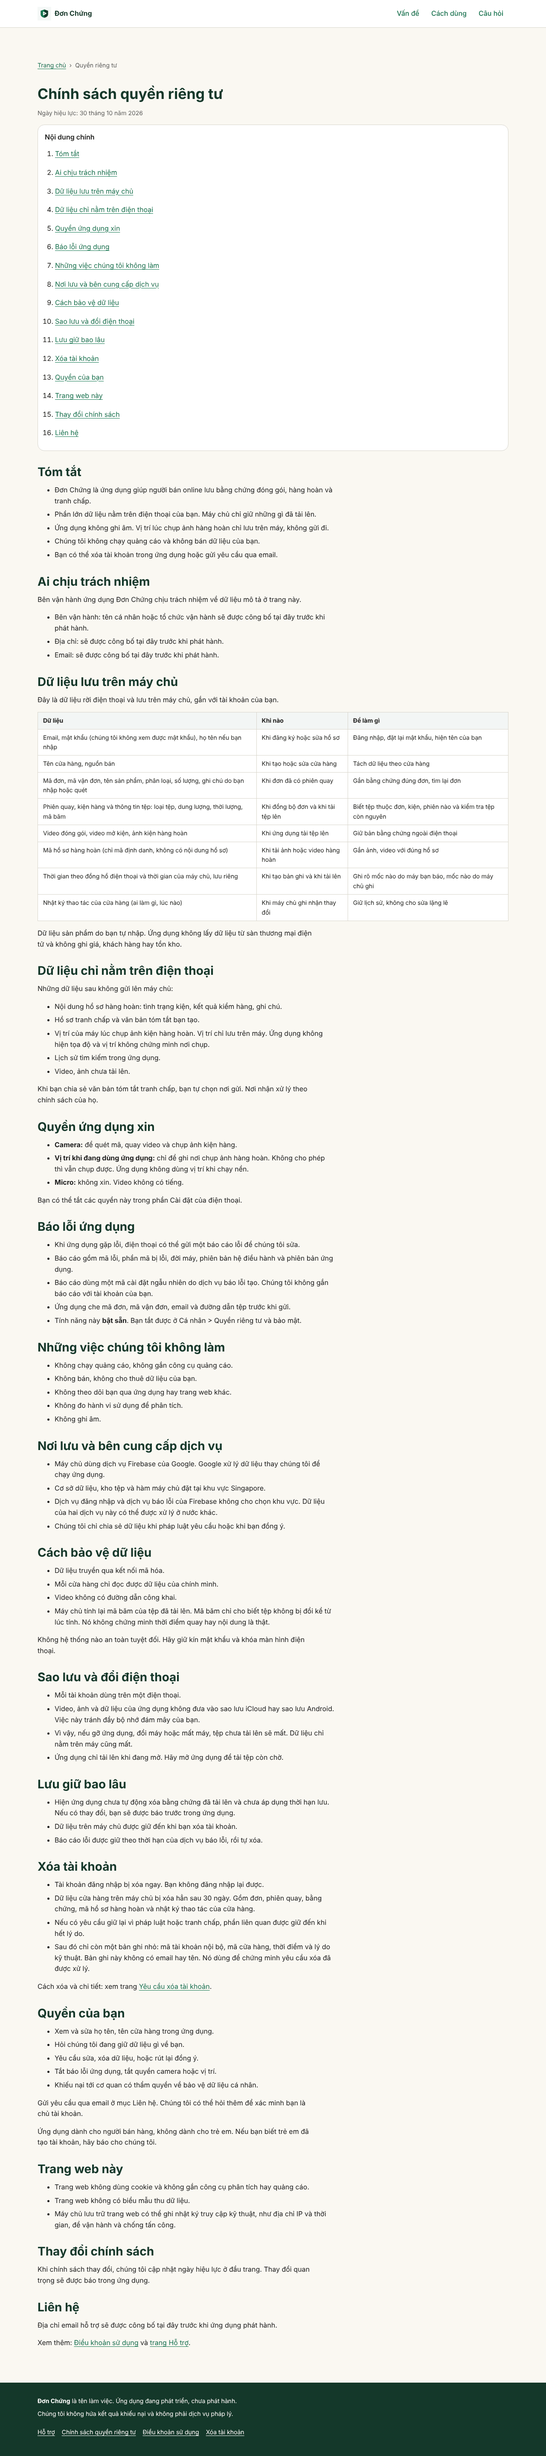
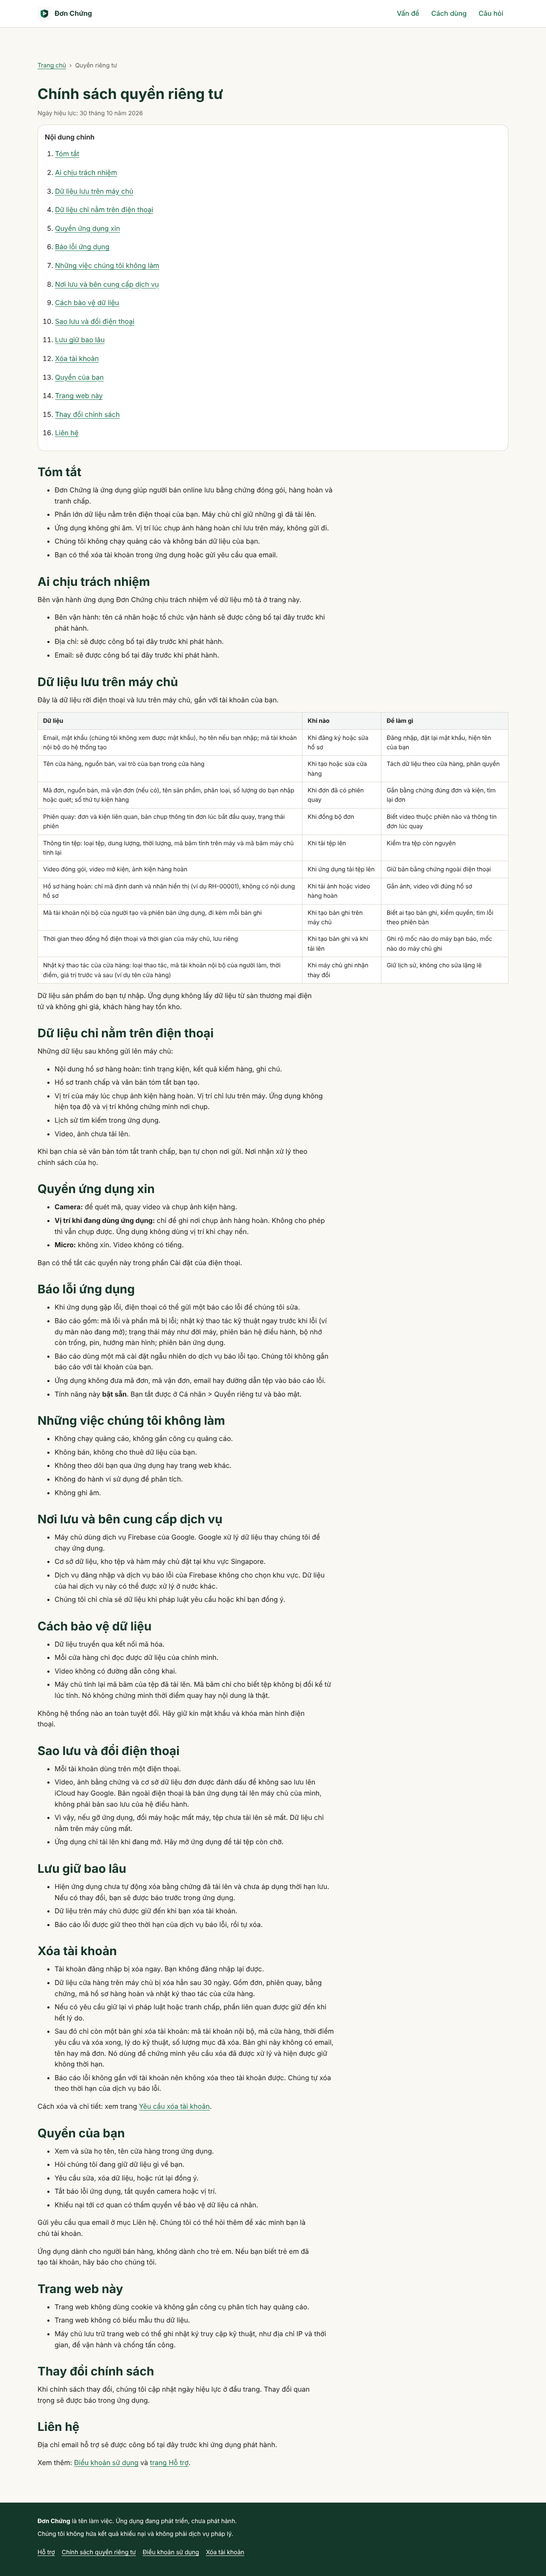
fix(web): sửa theo review PR #42 (V1-19)
- Quyền riêng tư: bảng dữ liệu máy chủ đối chiếu với mã (bỏ "ghi chú"; thêm mã tài khoản
  người tạo, phiên bản ứng dụng, vai trò, bản chụp đơn của phiên, mã băm máy chủ);
  câu sao lưu thu hẹp theo Q-24d; báo lỗi nêu nhật ký thao tác kỹ thuật và trạng thái
  máy, không đưa mã đơn/mã vận đơn/email/đường dẫn tệp vào báo cáo; câu bản ghi xóa
  khớp trang /xoa-tai-khoan/.
- Thêm `npm run check:release` (check-seo --release): giữ chỗ là lỗi dù indexable=false;
  checklist C-7 bắt buộc chạy trước khi khai URL cho store.
- decisions.md: đổi tiêu đề thành "Q-29 / V1-19 — web-legal-pages"; README ảnh ghi kết
  quả Lighthouse; chụp lại trang quyền riêng tư.

Claude-Session: https://claude.ai/code/session_01EqYbDgQebWwJDZZaEixKbZ

Changed region(s): [[0.0625, 0.0311, 0.9062, 0.995], [0.5, 0.8706, 0.5625, 0.9328], [0.3125, 0.0311, 0.375, 0.0622]]

diff --git a/docs/engineering/decisions.md b/docs/engineering/decisions.md
@@ -682,7 +682,9 @@ Mã lỗi/thông báo mới phát sinh từ PR2/PR4/PR5 (mất mạng, tệp tha
 
 Nguồn: [v1-release-plan.md](v1-release-plan.md) (2026-10-30). Các lựa chọn Q-24a–h, O-09, O-15 (v1), D-14 (cách làm tạm cho v1), xóa tài khoản, gói/thanh toán v1, crash reporting và quy trình build được **agent điều phối chốt thay người dùng** theo ủy quyền mà điều phối báo lại; **chưa có xác nhận trực tiếp của người dùng** và không phải D-xx. Bảng đầy đủ: kế hoạch mục 1.2. Câu hỏi R-1…R-8 (kế hoạch mục 7.3) **đã được điều phối chốt** ở kế hoạch mục 7.5; kèm chốt sau review PR #40: purge xóa cả shop gồm `auditEvents` theo yêu cầu xóa của chủ (sau 30 ngày, trừ khi có `legalHold`/tranh chấp), chỉ giữ `accountDeletions` (uid, thời điểm, `shopIds`, lý do kỹ thuật; không email/tên). **Q-24g:** A (một máy một tài khoản) + lọc theo `created_by` như Q-23g. Checklist con người: [release-checklist.md](release-checklist.md).
 
-**Q-29a — V1-19 trang web pháp lý (agent tự chốt theo ủy quyền, 2026-10-30; chờ rà pháp lý C-2):**
+#### Q-29 / V1-19 — web-legal-pages
+
+Agent tự chốt theo ủy quyền, 2026-10-30; chờ rà pháp lý C-2.
 
 | # | Chốt | Lý do |
 |---|---|---|
@@ -696,5 +698,7 @@ Nguồn: [v1-release-plan.md](v1-release-plan.md) (2026-10-30). Các lựa chọ
 | h | Nêu rõ Firebase Auth và Crashlytics không chọn khu vực nên có thể xử lý ở nước khác; Firestore/Storage/Functions ở Singapore | Trung thực về chuyển dữ liệu ra nước ngoài |
 | i | Trang chủ web: bỏ câu "Tải lên chạy nền" (2 chỗ), thay bằng "tải lên khi ứng dụng đang mở" | Bất biến 11; v1 không có tải nền |
 | j | `check-seo` thêm: bốn trang có mặt và trong sitemap, chân trang mọi trang liên kết đủ bốn trang, danh sách cụm từ cấm trên trang pháp lý ("pháp lý tuyệt đối", "đảm bảo thắng", "tải nền", "sao lưu an toàn", "bản nháp"…) | Kiểm tự động thay cho đọc tay |
+| k | Thêm `npm --prefix web run check:release` (`check-seo.mjs --release`): giữ chỗ là lỗi dù `indexable=false`; bắt buộc trước khi khai URL cho store (C-7) | Sửa sau review PR #42: store đọc trang dù không index |
+| l | Bảng dữ liệu máy chủ đối chiếu với mã (`remote-documents.ts`, Rules `evidence`/`returns`, `shop.ts`): bỏ "ghi chú" (không gửi), thêm mã tài khoản người tạo, phiên bản ứng dụng, vai trò, bản chụp đơn của phiên, mã băm máy chủ; mục báo lỗi nêu nhật ký thao tác kỹ thuật và trạng thái máy, cam kết V1-16 không đưa mã đơn/mã vận đơn/email/đường dẫn tệp vào báo cáo | Sửa sau review PR #42 |
 
 **Mã lỗi/chuỗi mới chờ BA (bổ sung khi làm từng PR V1-xx, không thêm vào `codes.ts` khi chưa duyệt):** `UPLOAD_WAITING_NETWORK`, `UPLOAD_INTERRUPTED`, `UPLOAD_EXCEPTION` (V1-02), `ACCOUNT_DELETE_SHOP_HAS_MEMBERS` (V1-14); câu "Đang chờ Wi‑Fi" (V1-09), câu thời hạn lưu v1 (V1-18), câu giới hạn khi quay (V1-11), màn Kiểm tra hộp thư (V1-03), luồng Xóa tài khoản (V1-15).

diff --git a/docs/engineering/release-checklist.md b/docs/engineering/release-checklist.md
@@ -59,7 +59,7 @@ Ma trận tối thiểu: 1 iPhone đời cũ ở sàn D-2 + 1 iPhone mới; 1 An
 - [ ] **C-3.** Kiểm tra thương hiệu/pháp lý Splash (D-15: logo sàn, câu "Bảo vệ quyền lợi") và slogan Chào mừng (Q-24e) trước khi công khai.
 - [ ] **C-4.** Duyệt mô tả store và khai báo Privacy Labels/Data safety ở `docs/engineering/store-listing.md` (V1-20) khớp app thật.
 - [ ] **C-6.** Đối chiếu bốn trang web V1-19 với **app thật ở bản phát hành** trước khi đặt `site.indexable = true`: đường đi menu Cá nhân > Quyền riêng tư và bảo mật > Xóa tài khoản, điều kiện chặn/cảnh báo (V1-15), 30 ngày (R-4, hằng số `purgeDeletedShops` V1-14), loại khỏi sao lưu (V1-01/V1-12; nếu V1-12 bị bỏ thì sửa mục "Sao lưu" của chính sách), báo lỗi bật sẵn có công tắc (V1-16; nếu V1-16 bị tách khỏi v1 thì bỏ mục "Báo lỗi ứng dụng"), câu thời hạn lưu khớp app (V1-18), "Chỉ tải khi có Wi‑Fi" (V1-09). Đối chiếu thời hạn lưu dữ liệu của Firebase Crashlytics với tài liệu chính thức hiện hành (trang chỉ ghi "theo thời hạn của dịch vụ", chưa ghi số).
-- [ ] **C-7.** Nhập URL trang web vào store: Google Play Console > App content > Privacy policy = `/chinh-sach-quyen-rieng-tu/`, Data safety > Data deletion URL = `/xoa-tai-khoan/`; App Store Connect > Privacy Policy URL và Support URL = `/ho-tro/` (tên miền thật D-4). Mở từng URL trên điện thoại, không lỗi, không cần đăng nhập.
+- [ ] **C-7.** Điều kiện trước: D-4, C-2, C-6 đã xong và `npm --prefix web run check:release` đạt (báo lỗi khi còn email/tên/địa chỉ/tên miền giữ chỗ, dù `indexable` đang tắt). Sau đó nhập URL trang web vào store: Google Play Console > App content > Privacy policy = `/chinh-sach-quyen-rieng-tu/`, Data safety > Data deletion URL = `/xoa-tai-khoan/`; App Store Connect > Privacy Policy URL và Support URL = `/ho-tro/` (tên miền thật D-4). Mở từng URL trên điện thoại, không lỗi, không cần đăng nhập.
 - [ ] **C-5.** Icon/ảnh splash chính thức (O-23, O-24): icon 1024×1024 không trong suốt (App Store), 512×512 (Play).
 
 ## P. Phát hành

diff --git a/web/README.md b/web/README.md
@@ -17,6 +17,7 @@ Cần Node >= 22.12 (đã thử với Node 22.22, npm 10.9). Chạy trong thư m
 | `npm run typecheck` | `astro check` (TypeScript + Astro) |
 | `npm run check:seo` | Kiểm tra `dist/`: độ dài title/description, trùng lặp, canonical, `lang`, một `h1`, OG/Twitter, JSON-LD hợp lệ (và FAQ khớp nội dung hiển thị), link/anchor hỏng, ảnh có `alt` + `width/height`, `sitemap`, `robots.txt`; trang pháp lý có mặt, trong sitemap, liên kết ở chân trang, không cụm từ cấm; chặn `indexable` khi còn giữ chỗ |
 | `npm run check` | typecheck + build + check:seo (chạy trước khi báo xong) |
+| `npm run check:release` | Như `check` nhưng **báo lỗi khi còn bất kỳ giữ chỗ nào** (`site.legal.*` là `null`, tên miền `.invalid`/`.example`) dù `indexable=false`. Phải đạt trước khi khai URL cho store (release-checklist C-7) |
 | `node scripts/make-og.mjs` | Tạo lại `public/og-default.png` (giữ chỗ) khi đổi tên thương hiệu |
 
 Astro gửi số liệu ẩn danh khi chạy lệnh. Tắt bằng `npx astro telemetry disable` hoặc biến môi trường `ASTRO_TELEMETRY_DISABLED=1`.

diff --git a/docs/assets/screens/v1-19-web-legal-pages/README.md b/docs/assets/screens/v1-19-web-legal-pages/README.md
@@ -16,4 +16,4 @@ Giới hạn:
 
 - Email hỗ trợ, tên và địa chỉ bên vận hành còn **giữ chỗ** (`web/src/config/site.ts`), nên trang hiện câu "sẽ được công bố tại đây trước khi phát hành".
 - Nội dung là bản chờ luật sư rà (release-checklist C-2) và mô tả hành vi bản v1 sau các PR V1-12/14/15/16; chưa đối chiếu với app thật (C-6).
-- Chưa kiểm trên trình duyệt điện thoại thật; chưa chạy Lighthouse.
+- Chưa kiểm trên trình duyệt điện thoại thật. Lighthouse 12 đã chạy cục bộ trên bốn trang (Chromium headless, không phải số đo thực tế p75): Accessibility, Best Practices, Performance 1.0; SEO 0.69 chỉ vì `noindex` có chủ đích.
